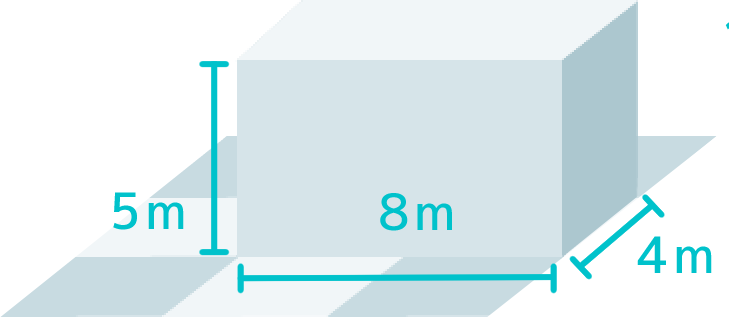
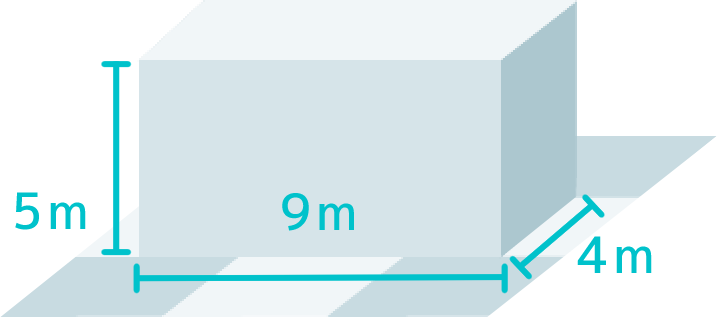
[春キャスマーケット2023] ブースのMサイズの最大幅を8mから9mへ

diff --git a/docs/scripts/cas-market.js b/docs/scripts/cas-market.js
@@ -84,6 +84,8 @@ customElements.define('cas-market', class extends LitElement {
 
 	render()
 	{
+		const boothSizeMedium8m = [ '6', '7', '8', '9', '10', '11' ].includes(this.eventId);
+
 		return html`
 <link rel="stylesheet" href="styles.css" />
 <link rel="stylesheet" href="../common.css" />
@@ -394,7 +396,8 @@ customElements.define('cas-market', class extends LitElement {
 						</figure>
 						<figure class="medium">
 							<figcaption>Mサイズ</figcaption>
-							<img src="../images/rules-booth-size-medium.png" alt="幅8m×奥行4m×高さ5m" />
+							<img src="../images/rules-booth-size-medium${boothSizeMedium8m ? '-width8m' : ''}.png"
+								alt="幅${boothSizeMedium8m ? '8' : '9' }m×奥行4m×高さ5m" />
 						</figure>
 						<figure class="large">
 							<figcaption>Lサイズ</figcaption>
